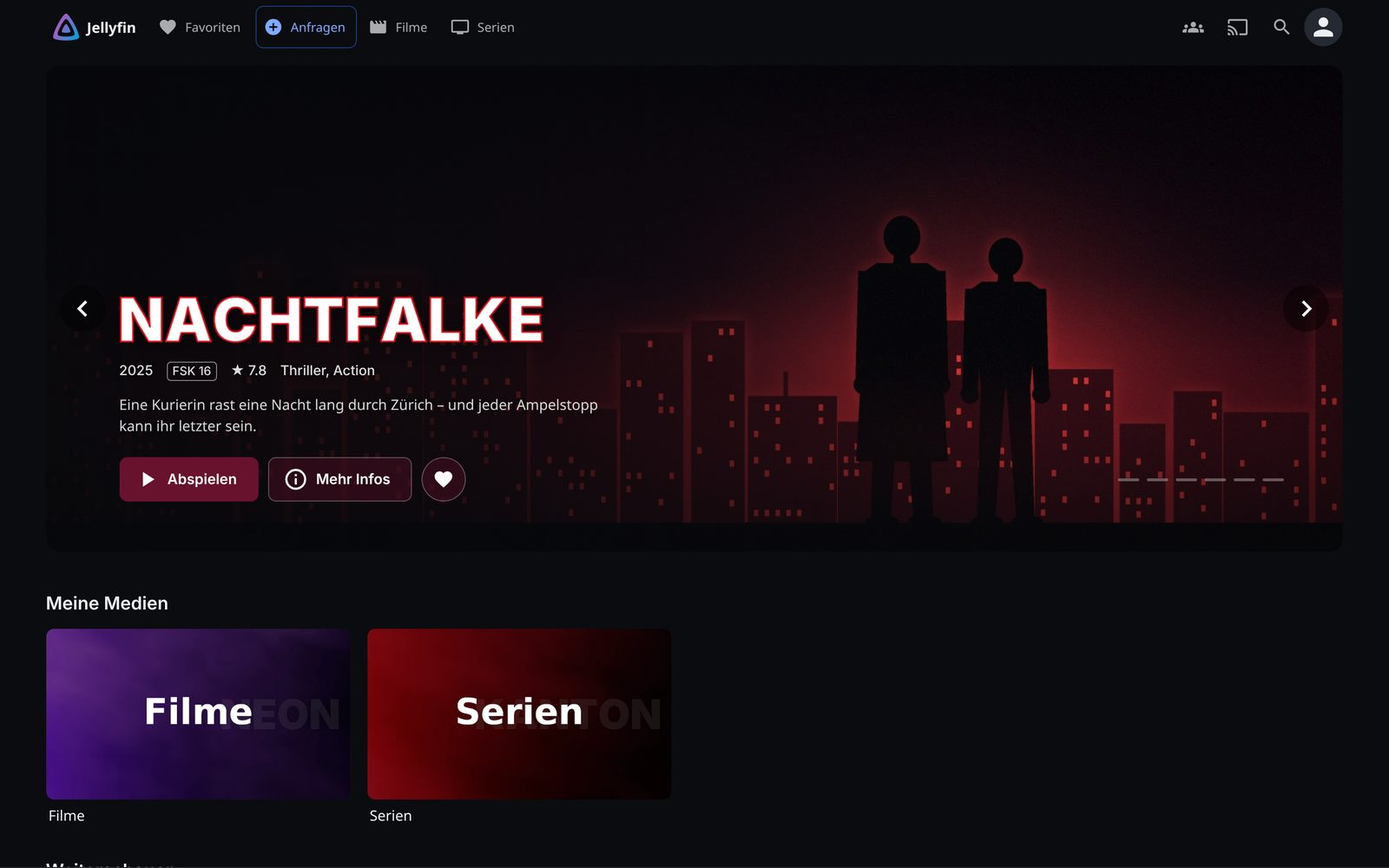
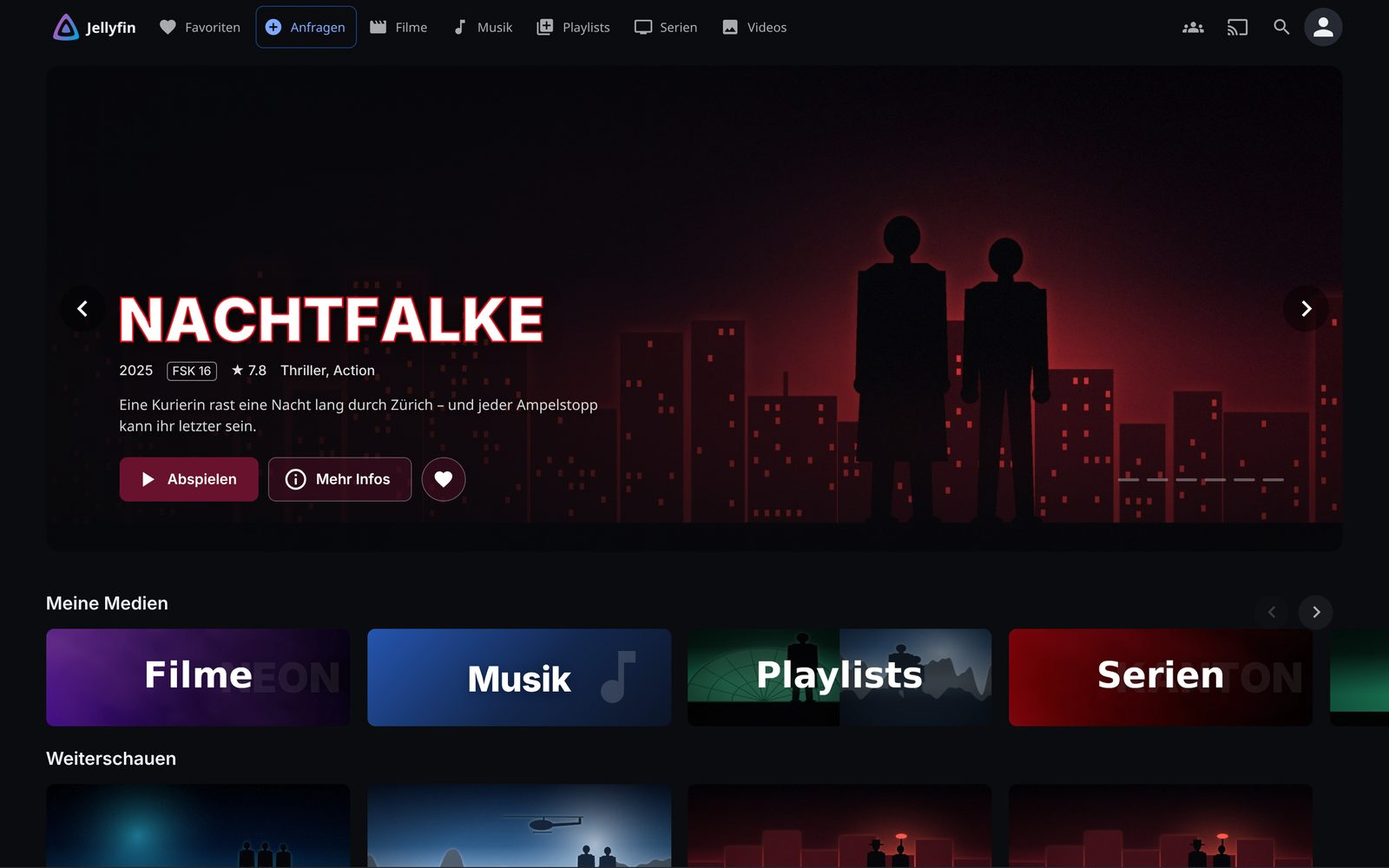
Startseite: flache "Meine Medien"-Kacheln, Weiterschauen mit Restzeit
- "Meine Medien": flachere Kacheln, der Name steht nur einmal (er ist schon im
  Bild). Kacheln ohne Bild (z.B. Playlists) bekommen einen dunklen Farbverlauf
  mit dem Namen gross in der Mitte.
- Fortschrittsbalken dicker und abgerundet im Bild, Titel bei breiten Karten fett.
  Auf dem Handy sitzt der Abspielknopf über dem Balken.
- Vorschau beim Drüberfahren: bei breiten Karten bleibt der Titel unter dem Bild,
  damit ein Logo im Bild frei bleibt; die Knöpfe sitzen über dem Balken.
- Fix: Jellyfin beschneidet Karten an ihrem Rand (contain: paint), dadurch fehlte
  beim Vergrössern links ein Streifen. Beim Drüberfahren wird das jetzt freigegeben.
- jellywatch.js: Restzeit bei "Weiterschauen" ("noch 14 min"). Eine zusätzliche
  lesende Anfrage pro neuer Karte, Text nur per textContent.
- README, SECURITY.md und Screenshots angepasst.

Claude-Session: https://claude.ai/code/session_01A721ahC7RrZEQFWsLW8ttG

diff --git a/jellywatch.css b/jellywatch.css
@@ -609,6 +609,104 @@ header.MuiAppBar-root .MuiButton-contained.MuiButton-colorPrimary {
 
 .itemProgressBarForeground {
     background: var(--jw-accent) !important;
+    border-radius: 3px;
+}
+
+/* Angefangene Filme und Folgen: dicker, abgerundeter Balken im Bild, mit Abstand zum Rand */
+.cardImageContainer > .innerCardFooter:has(> .itemProgressBar) {
+    left: 10px !important;
+    right: 10px !important;
+    bottom: 10px !important;
+    width: auto !important;
+    padding: 0 !important;
+    background: none !important;
+}
+
+.cardImageContainer > .innerCardFooter > .itemProgressBar {
+    height: 5px;
+    background: rgb(0 0 0 / .5);
+    box-shadow: inset 0 0 0 1px rgb(255 255 255 / .14);
+}
+
+/* Handy: der runde Abspielknopf sitzt über dem Balken statt darauf */
+.cardScalable:has(.itemProgressBar) > .cardOverlayButton {
+    bottom: 12px !important;
+}
+
+.homeSectionsContainer .overflowBackdropCard .cardText-first {
+    font-weight: 600;
+}
+
+/* Restzeit bei "Weiterschauen" (setzt jellywatch.js ein) */
+.cardText-secondary:has(> .jw-remain) {
+    display: flex;
+}
+
+.cardText-secondary:has(> .jw-remain) > bdi {
+    min-width: 0;
+    overflow: hidden;
+    text-overflow: ellipsis;
+    white-space: nowrap;
+}
+
+.jw-remain {
+    flex: none;
+    color: var(--jw-accent-text);
+    font-weight: 600;
+}
+
+.jw-remain::before {
+    content: "";
+    display: inline-block;
+    width: 3px;
+    height: 3px;
+    margin: 0 .5em;
+    border-radius: 50%;
+    background: var(--jw-text-3);
+    vertical-align: middle;
+}
+
+/* "Meine Medien": flache Kacheln. Jellyfin schreibt den Namen schon ins Bild,
+   deshalb fällt die kleine Beschriftung darunter weg. Kacheln ohne Bild (z.B.
+   Playlists) bekommen einen Farbverlauf und den Namen gross in die Mitte. */
+html:not(.layout-tv) .homeSectionsContainer .card:is([data-type="CollectionFolder"], [data-type="UserView"]) .cardPadder-overflowBackdrop {
+    padding-bottom: 32% !important;
+}
+
+html:not(.layout-tv) .homeSectionsContainer .card:is([data-type="CollectionFolder"], [data-type="UserView"]) > .cardBox {
+    position: relative;
+    margin-bottom: .9em !important;
+}
+
+html:not(.layout-tv) .homeSectionsContainer .card:is([data-type="CollectionFolder"], [data-type="UserView"]):not(:has(.defaultCardBackground)) .cardText {
+    display: none;
+}
+
+html:not(.layout-tv) .homeSectionsContainer .card:is([data-type="CollectionFolder"], [data-type="UserView"]) .cardImageContainer.defaultCardBackground {
+    background: linear-gradient(135deg, rgb(var(--jw-accent-ch) / .75) 0%, rgb(var(--jw-accent-ch) / .3) 55%, rgb(var(--jw-accent-ch) / .12) 100%), rgb(var(--jw-shade-ch)) !important;
+}
+
+html:not(.layout-tv) .homeSectionsContainer .card:is([data-type="CollectionFolder"], [data-type="UserView"]) .defaultCardBackground .cardImageIcon {
+    position: absolute;
+    top: 50%;
+    right: 6%;
+    transform: translateY(-50%);
+    font-size: clamp(2.6rem, 5vw, 6rem) !important;
+    color: rgb(255 255 255 / .16) !important;
+}
+
+html:not(.layout-tv) .homeSectionsContainer .card:is([data-type="CollectionFolder"], [data-type="UserView"]):has(.defaultCardBackground) .cardText-first {
+    position: absolute;
+    inset: 0;
+    display: flex;
+    align-items: center;
+    justify-content: center;
+    padding: 0 !important;
+    color: #fff;
+    font: 800 clamp(1.4rem, 2.5vw, 3rem)/1 var(--jw-font-display);
+    letter-spacing: -.01em;
+    text-shadow: 0 2px 10px rgb(0 0 0 / .35);
+    pointer-events: none;
 }
 
 .emby-scrollbuttons-button {
@@ -624,29 +722,22 @@ header.MuiAppBar-root .MuiButton-contained.MuiButton-colorPrimary {
     color: var(--jw-text) !important;
 }
 
-/* Vorschau beim Drüberfahren (nur mit Maus): Die Karte wird etwas grösser,
-   Titel und Jahr rutschen aufs Bild, darunter die Knöpfe. */
+/* Vorschau beim Drüberfahren (nur mit Maus): Die Karte wird etwas grösser und zeigt
+   die Knöpfe auf dem Bild. Bei Postern rutschen Titel und Jahr aufs Bild, bei breiten
+   Karten bleiben sie darunter, damit ein Logo im Bild frei bleibt. */
 @media (hover: hover) and (pointer: fine) {
     html:not(.layout-tv) .card-hoverable:is(.overflowPortraitCard, .portraitCard, .overflowBackdropCard, .backdropCard):not([data-type="CollectionFolder"], [data-type="UserView"], [data-type="Folder"], [data-type="Person"], .personCard):not(html:not(.layout-tv):not(.jw-js-hero) .homeSectionsContainer .verticalSection:has(> .sectionTitleContainer a[href*="collectionType=movies"]):not(:has(> .sectionTitleContainer a[href*="collectionType=movies"]) ~ *) .card) > .cardBox {
-        --jw-lift: -6.3rem;
         transition: transform .22s cubic-bezier(.2, .7, .3, 1);
     }
 
-    html:not(.layout-tv) .card-hoverable:is(.overflowPortraitCard, .portraitCard, .overflowBackdropCard, .backdropCard):not([data-type="CollectionFolder"], [data-type="UserView"], [data-type="Folder"], [data-type="Person"], .personCard):not(html:not(.layout-tv):not(.jw-js-hero) .homeSectionsContainer .verticalSection:has(> .sectionTitleContainer a[href*="collectionType=movies"]):not(:has(> .sectionTitleContainer a[href*="collectionType=movies"]) ~ *) .card) > .cardBox:not(:has(> .cardText-secondary)) {
-        --jw-lift: -5rem;
-    }
-
-    html:not(.layout-tv) .card-hoverable:is(.overflowPortraitCard, .portraitCard, .overflowBackdropCard, .backdropCard):not([data-type="CollectionFolder"], [data-type="UserView"], [data-type="Folder"], [data-type="Person"], .personCard):not(html:not(.layout-tv):not(.jw-js-hero) .homeSectionsContainer .verticalSection:has(> .sectionTitleContainer a[href*="collectionType=movies"]):not(:has(> .sectionTitleContainer a[href*="collectionType=movies"]) ~ *) .card) > .cardBox:has(> .cardText-secondary ~ .cardText-secondary) {
-        --jw-lift: -7.6rem;
+    /* Jellyfin beschneidet jede Karte an ihrem Rand (contain: paint). Beim Vergrössern freigeben. */
+    html:not(.layout-tv) .card-hoverable:is(.overflowPortraitCard, .portraitCard, .overflowBackdropCard, .backdropCard):not([data-type="CollectionFolder"], [data-type="UserView"], [data-type="Folder"], [data-type="Person"], .personCard):not(html:not(.layout-tv):not(.jw-js-hero) .homeSectionsContainer .verticalSection:has(> .sectionTitleContainer a[href*="collectionType=movies"]):not(:has(> .sectionTitleContainer a[href*="collectionType=movies"]) ~ *) .card):hover {
+        contain: layout style;
     }
 
     html:not(.layout-tv) .card-hoverable:is(.overflowPortraitCard, .portraitCard, .overflowBackdropCard, .backdropCard):not([data-type="CollectionFolder"], [data-type="UserView"], [data-type="Folder"], [data-type="Person"], .personCard):not(html:not(.layout-tv):not(.jw-js-hero) .homeSectionsContainer .verticalSection:has(> .sectionTitleContainer a[href*="collectionType=movies"]):not(:has(> .sectionTitleContainer a[href*="collectionType=movies"]) ~ *) .card):hover > .cardBox {
         transform: scale(1.06);
         transition-delay: .08s;
-    }
-
-    html:not(.layout-tv) .card-hoverable:is(.overflowPortraitCard, .portraitCard, .overflowBackdropCard, .backdropCard):not([data-type="CollectionFolder"], [data-type="UserView"], [data-type="Folder"], [data-type="Person"], .personCard):not(html:not(.layout-tv):not(.jw-js-hero) .homeSectionsContainer .verticalSection:has(> .sectionTitleContainer a[href*="collectionType=movies"]):not(:has(> .sectionTitleContainer a[href*="collectionType=movies"]) ~ *) .card) .cardOverlayContainer {
-        background: linear-gradient(to top, rgb(var(--jw-shade-ch) / .94) 0%, rgb(var(--jw-shade-ch) / .7) 30%, rgb(var(--jw-shade-ch) / .15) 58%, rgb(var(--jw-shade-ch) / 0) 72%);
     }
 
     html:not(.layout-tv) .card-hoverable:is(.overflowPortraitCard, .portraitCard, .overflowBackdropCard, .backdropCard):not([data-type="CollectionFolder"], [data-type="UserView"], [data-type="Folder"], [data-type="Person"], .personCard):not(html:not(.layout-tv):not(.jw-js-hero) .homeSectionsContainer .verticalSection:has(> .sectionTitleContainer a[href*="collectionType=movies"]):not(:has(> .sectionTitleContainer a[href*="collectionType=movies"]) ~ *) .card):hover .cardOverlayContainer {
@@ -717,12 +808,29 @@ header.MuiAppBar-root .MuiButton-contained.MuiButton-colorPrimary {
         font-size: 1.3rem !important;
     }
 
-    html:not(.layout-tv) .card-hoverable:is(.overflowPortraitCard, .portraitCard, .overflowBackdropCard, .backdropCard):not([data-type="CollectionFolder"], [data-type="UserView"], [data-type="Folder"], [data-type="Person"], .personCard):not(html:not(.layout-tv):not(.jw-js-hero) .homeSectionsContainer .verticalSection:has(> .sectionTitleContainer a[href*="collectionType=movies"]):not(:has(> .sectionTitleContainer a[href*="collectionType=movies"]) ~ *) .card) > .cardBox > .cardText {
+    /* Poster: Titel und Jahr rutschen aufs Bild */
+    html:not(.layout-tv) .card-hoverable:is(.overflowPortraitCard, .portraitCard):not([data-type="CollectionFolder"], [data-type="UserView"], [data-type="Folder"], [data-type="Person"], .personCard):not(html:not(.layout-tv):not(.jw-js-hero) .homeSectionsContainer .verticalSection:has(> .sectionTitleContainer a[href*="collectionType=movies"]):not(:has(> .sectionTitleContainer a[href*="collectionType=movies"]) ~ *) .card) > .cardBox {
+        --jw-lift: -6.3rem;
+    }
+
+    html:not(.layout-tv) .card-hoverable:is(.overflowPortraitCard, .portraitCard):not([data-type="CollectionFolder"], [data-type="UserView"], [data-type="Folder"], [data-type="Person"], .personCard):not(html:not(.layout-tv):not(.jw-js-hero) .homeSectionsContainer .verticalSection:has(> .sectionTitleContainer a[href*="collectionType=movies"]):not(:has(> .sectionTitleContainer a[href*="collectionType=movies"]) ~ *) .card) > .cardBox:not(:has(> .cardText-secondary)) {
+        --jw-lift: -5rem;
+    }
+
+    html:not(.layout-tv) .card-hoverable:is(.overflowPortraitCard, .portraitCard):not([data-type="CollectionFolder"], [data-type="UserView"], [data-type="Folder"], [data-type="Person"], .personCard):not(html:not(.layout-tv):not(.jw-js-hero) .homeSectionsContainer .verticalSection:has(> .sectionTitleContainer a[href*="collectionType=movies"]):not(:has(> .sectionTitleContainer a[href*="collectionType=movies"]) ~ *) .card) > .cardBox:has(> .cardText-secondary ~ .cardText-secondary) {
+        --jw-lift: -7.6rem;
+    }
+
+    html:not(.layout-tv) .card-hoverable:is(.overflowPortraitCard, .portraitCard):not([data-type="CollectionFolder"], [data-type="UserView"], [data-type="Folder"], [data-type="Person"], .personCard):not(html:not(.layout-tv):not(.jw-js-hero) .homeSectionsContainer .verticalSection:has(> .sectionTitleContainer a[href*="collectionType=movies"]):not(:has(> .sectionTitleContainer a[href*="collectionType=movies"]) ~ *) .card) .cardOverlayContainer {
+        background: linear-gradient(to top, rgb(var(--jw-shade-ch) / .94) 0%, rgb(var(--jw-shade-ch) / .7) 30%, rgb(var(--jw-shade-ch) / .15) 58%, rgb(var(--jw-shade-ch) / 0) 72%);
+    }
+
+    html:not(.layout-tv) .card-hoverable:is(.overflowPortraitCard, .portraitCard):not([data-type="CollectionFolder"], [data-type="UserView"], [data-type="Folder"], [data-type="Person"], .personCard):not(html:not(.layout-tv):not(.jw-js-hero) .homeSectionsContainer .verticalSection:has(> .sectionTitleContainer a[href*="collectionType=movies"]):not(:has(> .sectionTitleContainer a[href*="collectionType=movies"]) ~ *) .card) > .cardBox > .cardText {
         position: relative;
         transition: transform .22s cubic-bezier(.2, .7, .3, 1), padding .22s;
     }
 
-    html:not(.layout-tv) .card-hoverable:is(.overflowPortraitCard, .portraitCard, .overflowBackdropCard, .backdropCard):not([data-type="CollectionFolder"], [data-type="UserView"], [data-type="Folder"], [data-type="Person"], .personCard):not(html:not(.layout-tv):not(.jw-js-hero) .homeSectionsContainer .verticalSection:has(> .sectionTitleContainer a[href*="collectionType=movies"]):not(:has(> .sectionTitleContainer a[href*="collectionType=movies"]) ~ *) .card):hover > .cardBox > .cardText {
+    html:not(.layout-tv) .card-hoverable:is(.overflowPortraitCard, .portraitCard):not([data-type="CollectionFolder"], [data-type="UserView"], [data-type="Folder"], [data-type="Person"], .personCard):not(html:not(.layout-tv):not(.jw-js-hero) .homeSectionsContainer .verticalSection:has(> .sectionTitleContainer a[href*="collectionType=movies"]):not(:has(> .sectionTitleContainer a[href*="collectionType=movies"]) ~ *) .card):hover > .cardBox > .cardText {
         z-index: 2;
         transform: translateY(var(--jw-lift));
         padding-left: .7rem;
@@ -733,16 +841,26 @@ header.MuiAppBar-root .MuiButton-contained.MuiButton-colorPrimary {
         transition-delay: .08s;
     }
 
-    html:not(.layout-tv) .card-hoverable:is(.overflowPortraitCard, .portraitCard, .overflowBackdropCard, .backdropCard):not([data-type="CollectionFolder"], [data-type="UserView"], [data-type="Folder"], [data-type="Person"], .personCard):not(html:not(.layout-tv):not(.jw-js-hero) .homeSectionsContainer .verticalSection:has(> .sectionTitleContainer a[href*="collectionType=movies"]):not(:has(> .sectionTitleContainer a[href*="collectionType=movies"]) ~ *) .card):hover > .cardBox > .cardText-first {
+    html:not(.layout-tv) .card-hoverable:is(.overflowPortraitCard, .portraitCard):not([data-type="CollectionFolder"], [data-type="UserView"], [data-type="Folder"], [data-type="Person"], .personCard):not(html:not(.layout-tv):not(.jw-js-hero) .homeSectionsContainer .verticalSection:has(> .sectionTitleContainer a[href*="collectionType=movies"]):not(:has(> .sectionTitleContainer a[href*="collectionType=movies"]) ~ *) .card):hover > .cardBox > .cardText-first {
         font-weight: 600;
     }
 
-    html:not(.layout-tv) .card-hoverable:is(.overflowPortraitCard, .portraitCard, .overflowBackdropCard, .backdropCard):not([data-type="CollectionFolder"], [data-type="UserView"], [data-type="Folder"], [data-type="Person"], .personCard):not(html:not(.layout-tv):not(.jw-js-hero) .homeSectionsContainer .verticalSection:has(> .sectionTitleContainer a[href*="collectionType=movies"]):not(:has(> .sectionTitleContainer a[href*="collectionType=movies"]) ~ *) .card):hover > .cardBox > .cardText-first a {
+    html:not(.layout-tv) .card-hoverable:is(.overflowPortraitCard, .portraitCard):not([data-type="CollectionFolder"], [data-type="UserView"], [data-type="Folder"], [data-type="Person"], .personCard):not(html:not(.layout-tv):not(.jw-js-hero) .homeSectionsContainer .verticalSection:has(> .sectionTitleContainer a[href*="collectionType=movies"]):not(:has(> .sectionTitleContainer a[href*="collectionType=movies"]) ~ *) .card):hover > .cardBox > .cardText-first a {
         pointer-events: auto;
     }
 
-    html:not(.layout-tv) .card-hoverable:is(.overflowPortraitCard, .portraitCard, .overflowBackdropCard, .backdropCard):not([data-type="CollectionFolder"], [data-type="UserView"], [data-type="Folder"], [data-type="Person"], .personCard):not(html:not(.layout-tv):not(.jw-js-hero) .homeSectionsContainer .verticalSection:has(> .sectionTitleContainer a[href*="collectionType=movies"]):not(:has(> .sectionTitleContainer a[href*="collectionType=movies"]) ~ *) .card):hover > .cardBox > .cardText-secondary {
+    html:not(.layout-tv) .card-hoverable:is(.overflowPortraitCard, .portraitCard):not([data-type="CollectionFolder"], [data-type="UserView"], [data-type="Folder"], [data-type="Person"], .personCard):not(html:not(.layout-tv):not(.jw-js-hero) .homeSectionsContainer .verticalSection:has(> .sectionTitleContainer a[href*="collectionType=movies"]):not(:has(> .sectionTitleContainer a[href*="collectionType=movies"]) ~ *) .card):hover > .cardBox > .cardText-secondary {
         color: rgb(255 255 255 / .82) !important;
+    }
+
+    /* Breite Karten: nur die Knöpfe auf dem Bild, über dem Fortschrittsbalken */
+    html:not(.layout-tv) .card-hoverable:is(.overflowBackdropCard, .backdropCard):not([data-type="CollectionFolder"], [data-type="UserView"], [data-type="Folder"], [data-type="Person"], .personCard):not(html:not(.layout-tv):not(.jw-js-hero) .homeSectionsContainer .verticalSection:has(> .sectionTitleContainer a[href*="collectionType=movies"]):not(:has(> .sectionTitleContainer a[href*="collectionType=movies"]) ~ *) .card) .cardOverlayContainer {
+        background: linear-gradient(to top, rgb(var(--jw-shade-ch) / .8) 0%, rgb(var(--jw-shade-ch) / .35) 30%, rgb(var(--jw-shade-ch) / 0) 55%);
+    }
+
+    html:not(.layout-tv) .card-hoverable:is(.overflowBackdropCard, .backdropCard):not([data-type="CollectionFolder"], [data-type="UserView"], [data-type="Folder"], [data-type="Person"], .personCard):not(html:not(.layout-tv):not(.jw-js-hero) .homeSectionsContainer .verticalSection:has(> .sectionTitleContainer a[href*="collectionType=movies"]):not(:has(> .sectionTitleContainer a[href*="collectionType=movies"]) ~ *) .card):has(.itemProgressBar) .cardOverlayContainer > .cardOverlayFab-primary,
+    html:not(.layout-tv) .card-hoverable:is(.overflowBackdropCard, .backdropCard):not([data-type="CollectionFolder"], [data-type="UserView"], [data-type="Folder"], [data-type="Person"], .personCard):not(html:not(.layout-tv):not(.jw-js-hero) .homeSectionsContainer .verticalSection:has(> .sectionTitleContainer a[href*="collectionType=movies"]):not(:has(> .sectionTitleContainer a[href*="collectionType=movies"]) ~ *) .card):has(.itemProgressBar) .cardOverlayContainer .cardOverlayButton-br {
+        bottom: 1.6rem;
     }
 }
 

diff --git a/jellywatch.js b/jellywatch.js
@@ -4,11 +4,13 @@
  *
  * Zeigt oben auf der Startseite zufällige Filme aus der ganzen Bibliothek, mit
  * dem grossen Hintergrundbild, Logo, Beschreibung, Pfeilen und Punkten.
+ * Bei "Weiterschauen" steht zusätzlich die Restzeit unter dem Titel.
  *
  * Sicherheit:
  * - Spricht nur mit deinem eigenen Jellyfin-Server, über die Anmeldung, die im
  *   Browser schon besteht. Es gibt keine Adressen zu anderen Servern.
- * - Stellt nur eine lesende Anfrage (eine Liste von Filmen). Abspielen, Favorit
+ * - Stellt nur lesende Anfragen: eine Liste von Filmen für die Slideshow und
+ *   Laufzeit und Fortschritt der Karten bei "Weiterschauen". Abspielen, Favorit
  *   und "Mehr Infos" laufen über Jellyfins eigene Knöpfe und Funktionen.
  * - Titel und Beschreibungen werden nur als Text eingefügt, nie als HTML.
  * - IDs und Bild-Kennungen werden geprüft, bevor sie in eine Adresse kommen.
@@ -631,6 +633,104 @@
         return { root: root, parts: parts, controls: { prev: prev, next: next, dots: dots } };
     }
 
+    /* ---------- Restzeit bei "Weiterschauen" ---------- */
+
+    var remainInfo = {}; /* id -> { key: Position laut Karte, rt: Laufzeit, pos: Position } */
+    var remainBusy = false;
+
+    function remainingText(ticks) {
+        var minutes = Math.max(1, Math.round(ticks / 600000000));
+        var h = Math.floor(minutes / 60);
+        var m = minutes % 60;
+        var value = h > 0 ? h + ' h ' + m + ' min' : m + ' min';
+        return t('noch ' + value, value + ' left');
+    }
+
+    function resumeCards() {
+        return Array.prototype.slice.call(document.querySelectorAll(
+            '#indexPage:not(.hide) .homeSectionsContainer .overflowBackdropCard[data-positionticks]'));
+    }
+
+    function showRemaining(card, info) {
+        var line = card.querySelector('.cardText-secondary');
+        if (!line || !info || !(info.rt > 0) || !(info.rt > info.pos)) {
+            return;
+        }
+        var label = remainingText(info.rt - info.pos);
+        var span = line.querySelector(':scope > .jw-remain');
+        if (!span) {
+            span = el('span', 'jw-remain');
+            line.appendChild(span);
+        }
+        if (span.textContent !== label) {
+            span.textContent = label;
+        }
+    }
+
+    function updateRemaining() {
+        if (remainBusy || HTML.classList.contains('layout-tv')) {
+            return;
+        }
+        var cards = resumeCards();
+        if (!cards.length || !themeReady()) {
+            return;
+        }
+        var client = getClient();
+        if (!client) {
+            return;
+        }
+        var missing = [];
+        cards.forEach(function (card) {
+            var id = card.getAttribute('data-id');
+            if (typeof id !== 'string' || !ID_RE.test(id)) {
+                return;
+            }
+            var key = card.getAttribute('data-positionticks') || '';
+            var info = remainInfo[id];
+            if (info && info.key === key) {
+                if (!card.querySelector('.cardText-secondary > .jw-remain')) {
+                    showRemaining(card, info);
+                }
+            } else if (missing.length < 50) {
+                /* jede Karte mit derselben Position nur einmal nachfragen */
+                remainInfo[id] = { key: key, rt: 0, pos: 0 };
+                missing.push(id);
+            }
+        });
+        if (!missing.length) {
+            return;
+        }
+        remainBusy = true;
+        client.getJSON(client.getUrl('Items', {
+            userId: client.getCurrentUserId(),
+            Ids: missing.join(','),
+            EnableImages: false,
+            EnableUserData: true,
+            EnableTotalRecordCount: false
+        })).then(function (res) {
+            (res && Array.isArray(res.Items) ? res.Items : []).forEach(function (it) {
+                if (!it || typeof it.Id !== 'string' || !ID_RE.test(it.Id) || !remainInfo[it.Id]) {
+                    return;
+                }
+                var rt = typeof it.RunTimeTicks === 'number' && isFinite(it.RunTimeTicks) ? it.RunTimeTicks : 0;
+                var ud = it.UserData && typeof it.UserData === 'object' ? it.UserData : {};
+                var pos = typeof ud.PlaybackPositionTicks === 'number' && isFinite(ud.PlaybackPositionTicks) ? ud.PlaybackPositionTicks : 0;
+                remainInfo[it.Id].rt = rt;
+                remainInfo[it.Id].pos = pos;
+            });
+            resumeCards().forEach(function (card) {
+                var info = remainInfo[card.getAttribute('data-id')];
+                if (info && info.key === (card.getAttribute('data-positionticks') || '')) {
+                    showRemaining(card, info);
+                }
+            });
+        }).catch(function () {
+            /* ohne Restzeit weitermachen */
+        }).then(function () {
+            remainBusy = false;
+        });
+    }
+
     /* ---------- Einbau in die Startseite ---------- */
 
     function homeTab() {
@@ -704,6 +804,7 @@
                 if (active) {
                     active.update();
                 }
+                updateRemaining();
             } catch (e) {
                 building = false;
                 console.warn('[Jellywatch]', e && e.message ? e.message : e);

diff --git a/README.md b/README.md
@@ -10,10 +10,14 @@ Ein Theme für Jellyfin 12. Das Theme selbst ist reines CSS: keine Plugins und k
 
 - **Slideshow** oben auf der Startseite mit 6 zufälligen Filmen: grosses Hintergrundbild, Logo, Beschreibung und Pfeile zum Vor- und Zurückblättern. Das braucht das optionale `jellywatch.js`. Ohne Skript zeigt eine reine CSS-Version die Poster der neuesten Filme.
 - Die Knöpfe in der Slideshow haben die **Farbe des jeweiligen Films**.
-- **Vorschau beim Drüberfahren:** Die Karte wird etwas grösser, Titel, Jahr und Knöpfe erscheinen auf dem Bild.
+- **Vorschau beim Drüberfahren:** Die Karte wird etwas grösser, die Knöpfe erscheinen auf dem Bild. Bei Postern rutschen auch Titel und Jahr aufs Bild, bei breiten Karten bleiben sie darunter.
+- **„Meine Medien“ als flache Kacheln:** Der Name steht nur einmal da. Kacheln ohne Bild, z.B. Playlists, bekommen einen Farbverlauf mit dem Namen.
+- **„Weiterschauen“** mit gut sichtbarem Fortschrittsbalken im Bild und der Restzeit, z.B. „noch 14 min“. Die Restzeit braucht `jellywatch.js`.
 - **Sechs Farbvarianten**, passend zu den Theme-Namen von Jellyfin. Jeder Benutzer wählt selbst.
 - Optional ein Knopf **„Anfragen“** für Seerr, ohne API-Key.
 - Angepasst für Computer, Handy und TV.
+
+![Meine Medien und Weiterschauen](screenshots/reihen.jpg)
 
 ![Vorschau beim Drüberfahren](screenshots/vorschau.jpg)
 
@@ -216,7 +220,15 @@ Eigene Akzentfarbe, als `#hex` und als `R G B`:
 }
 ```
 
-Die Slideshow mit Hintergrundbildern ausschalten, ohne etwas am Server zu ändern (dann gilt wieder die CSS-Version):
+Die kleinen Namen unter den Kacheln von „Meine Medien“ wieder anzeigen. Das ist nötig, falls deine Bibliotheks-Bilder keinen Namen enthalten:
+
+```css
+.homeSectionsContainer .card[data-type="CollectionFolder"]:not(:has(.defaultCardBackground)) .cardText {
+    display: block !important;
+}
+```
+
+Das Skript `jellywatch.js` ausschalten, ohne etwas am Server zu ändern. Dann gilt wieder die CSS-Slideshow, und die Restzeit fällt weg:
 
 ```css
 :root {
@@ -267,7 +279,7 @@ Das kann Jellyfin selbst über ⋮ → Download. Der Admin muss es pro Benutzer 
 **`jellywatch.js`:**
 
 - spricht nur mit deinem eigenen Jellyfin-Server und nutzt die Anmeldung, die im Browser schon besteht. Es enthält keine Adressen zu anderen Servern.
-- stellt nur eine lesende Anfrage (6 zufällige Filme). Jeder Benutzer sieht nur Filme, die er sehen darf. Abspielen, Favorit und das Menü erledigt Jellyfins eigener Code.
+- stellt nur lesende Anfragen: 6 zufällige Filme für die Slideshow, dazu Laufzeit und Fortschritt der Karten bei „Weiterschauen“ für die Restzeit. Jeder Benutzer sieht nur, was er sehen darf. Abspielen, Favorit und das Menü erledigt Jellyfins eigener Code.
 - fügt Titel und Beschreibungen nur als Text ein, nie als HTML.
 - speichert nichts und liest keine Passwörter oder Tokens.
 - Wenn etwas schiefgeht, verschwindet die Slideshow und die CSS-Version bleibt.

diff --git a/SECURITY.md b/SECURITY.md
@@ -16,7 +16,11 @@ Jellywatch besteht aus zwei Teilen:
 
 Es macht:
 
-- Beim Öffnen der Startseite **eine lesende Anfrage** an deinen Jellyfin-Server: 6 zufällige Filme mit Titel, Beschreibung und den Kennungen ihrer Bilder. Das ist dieselbe Art Anfrage, die Jellyfin für seine eigenen Seiten stellt, mit der Anmeldung, die im Browser schon besteht. Jeder Benutzer sieht deshalb nur Filme, die er sehen darf (Bibliotheks-Rechte und Altersfreigaben gelten weiter).
+- Auf der Startseite nur **lesende Anfragen** an deinen Jellyfin-Server:
+  - 6 zufällige Filme mit Titel, Beschreibung und den Kennungen ihrer Bilder für die Slideshow
+  - Laufzeit und Fortschritt der Karten unter „Weiterschauen“ für die Restzeit
+
+  Das ist dieselbe Art Anfrage, die Jellyfin für seine eigenen Seiten stellt, mit der Anmeldung, die im Browser schon besteht. Jeder Benutzer sieht deshalb nur, was er sehen darf (Bibliotheks-Rechte und Altersfreigaben gelten weiter).
 - Es zeigt Hintergrundbild und Logo von deinem Server an.
 - Abspielen, „Mehr Infos“, Favorit und das Rechtsklick-Menü erledigt **Jellyfins eigener Code**, wie bei jeder anderen Karte.
 - Für die Knopffarbe rechnet es die Durchschnittsfarbe des Hintergrundbilds aus, nur im Browser.
@@ -24,7 +28,7 @@ Es macht:
 Es macht nicht:
 
 - **Keine Verbindung zu anderen Servern.** Im Code steht keine einzige Adresse.
-- **Kein HTML aus der Datenbank.** Titel, Beschreibung und Genres werden nur als Text eingefügt (`textContent`). Ein Film mit dem Titel `<img src=x onerror=alert(1)>` zeigt genau diesen Text an und führt nichts aus.
+- **Kein HTML aus der Datenbank.** Titel, Beschreibung, Genres und die Restzeit werden nur als Text eingefügt (`textContent`). Ein Film mit dem Titel `<img src=x onerror=alert(1)>` zeigt genau diesen Text an und führt nichts aus.
 - **Keine ungeprüften Werte in Adressen.** IDs und Bild-Kennungen werden geprüft (nur Buchstaben und Ziffern), bevor sie in eine Bild-Adresse kommen.
 - **Nichts speichern.** Kein `localStorage`, keine Cookies, kein Tracking. Die zuletzt gezeigten Filme merkt es sich nur im Arbeitsspeicher, bis die Seite neu geladen wird.
 - **Keine Zugangsdaten.** Es liest keine Passwörter, Tokens oder API-Keys.
